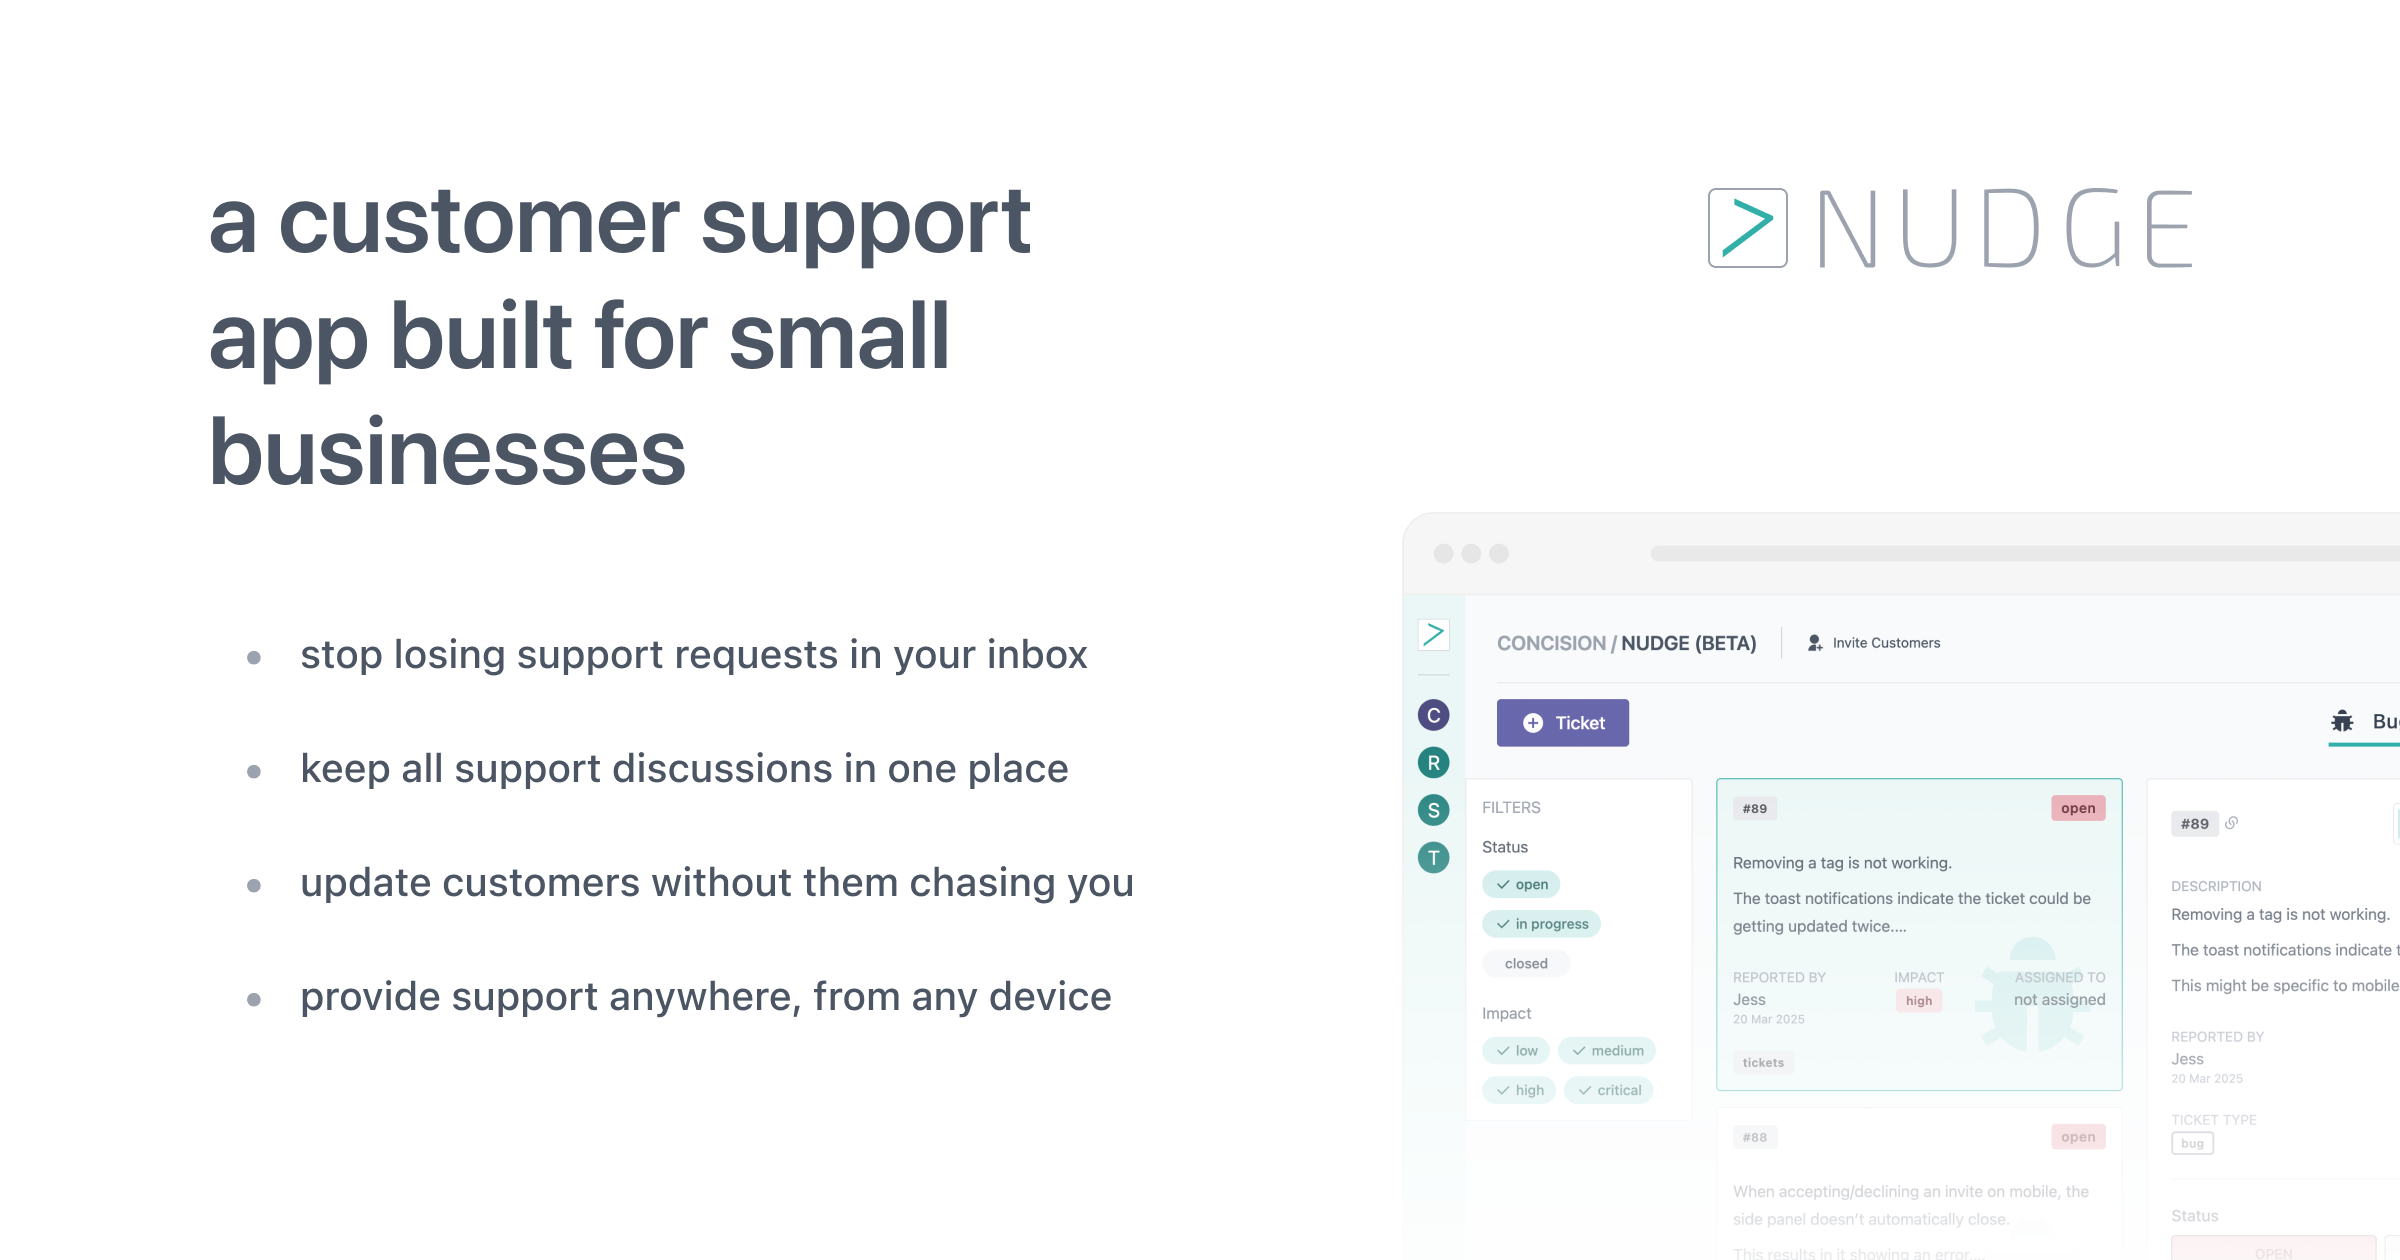
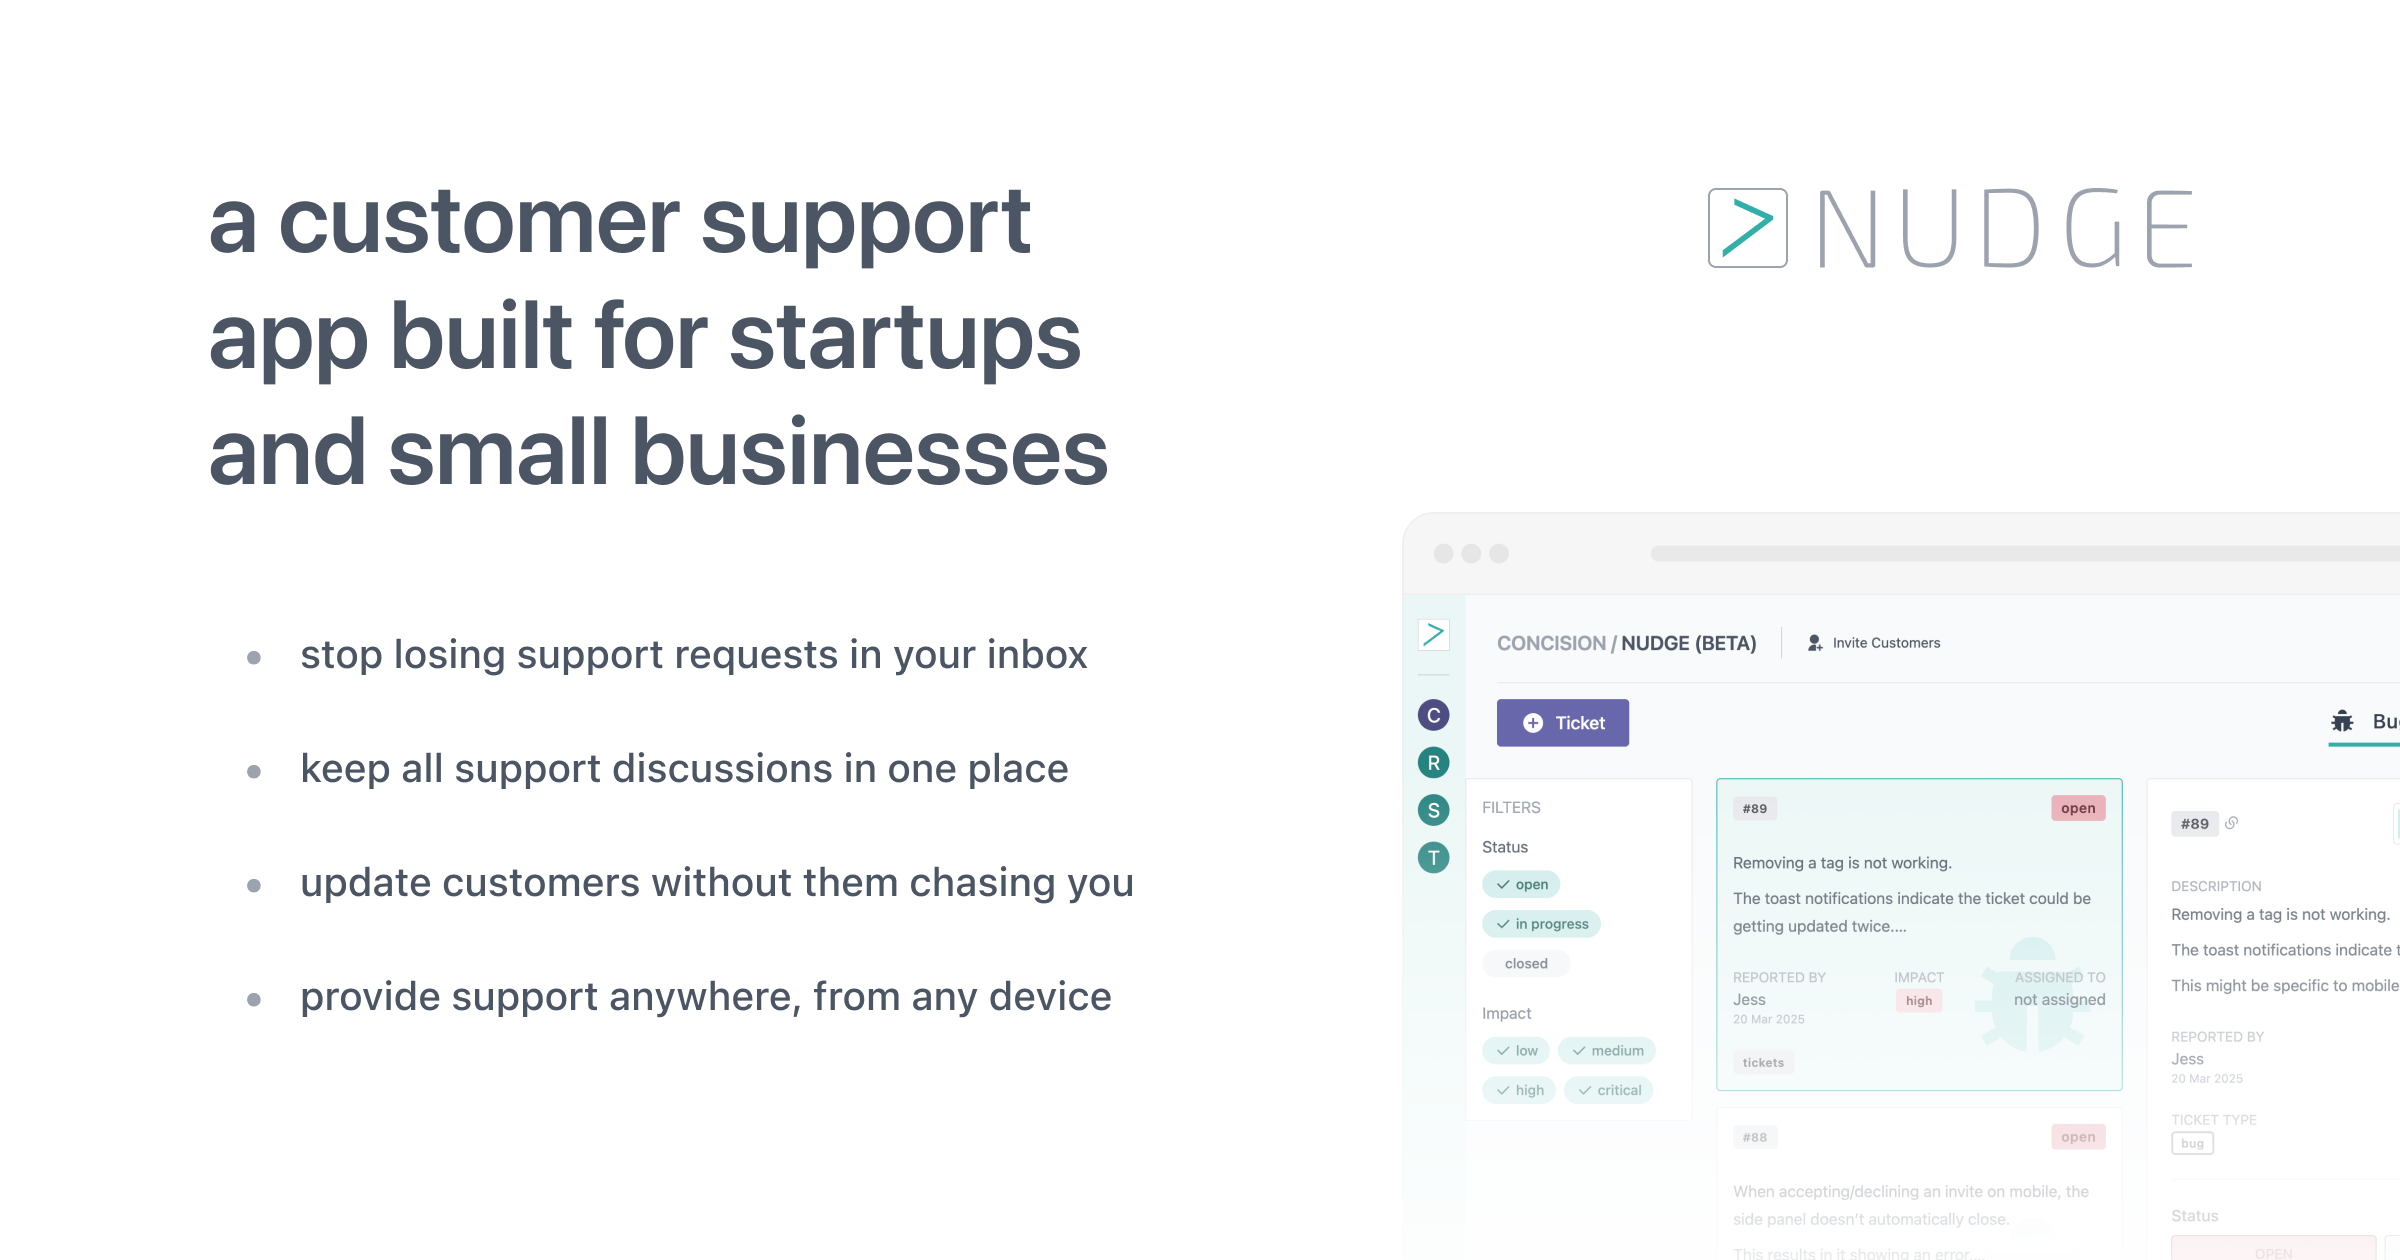
Feat/feedback changes v1 (#1)
* feat: set all headings to lowercase

* feat: include startups in meta data

* feat: replace social-preview image with version that includes mention of startups

* feat: replace "small teams" with "startups/small businesses" in benefits and FAQ

* fix(nav): make the overlay fill the screen when the mobile nav is open

Changed region(s): [[0.0938, 0.3405, 0.4688, 0.4024], [0.3125, 0.2167, 0.4688, 0.3095]]

diff --git a/index.html b/index.html
@@ -20,7 +20,7 @@
       fetchpriority="high"
     />
 
-    <title>Customer Support App for Small Businesses | Nudge</title>
+    <title>Customer Support App for Startups and Small Businesses | Nudge</title>
     <meta
       name="description"
       content="Nudge helps small businesses manage customer requests with ease. Track tickets, collaborate with your team, and keep customers updated from any device."
@@ -29,10 +29,10 @@
     <meta name="application-name" content="Nudge" />
 
     <!-- Open Graph data -->
-    <meta property="og:title" content="Nudge — Customer Support App for Small Businesses" />
+    <meta property="og:title" content="Nudge — Customer Support App for Startups and Small Businesses" />
     <meta
       property="og:description"
-      content="Manage customer requests, track tickets, and collaborate with your team. Nudge makes support simple for small businesses."
+      content="Manage customer requests, track tickets, and collaborate with your team. Nudge makes support simple for startups and small businesses."
     />
     <meta property="og:image" content="https://nudgesupport.com/assets/social-preview.png" />
     <meta property="og:url" content="https://nudgesupport.com" />
@@ -45,10 +45,10 @@
 
     <!-- Twitter Card data -->
     <meta name="twitter:card" content="summary_large_image" />
-    <meta name="twitter:title" content="Nudge — Customer Support App for Small Businesses" />
+    <meta name="twitter:title" content="Nudge — Customer Support App for Startups and Small Businesses" />
     <meta
       name="twitter:description"
-      content="Manage customer requests, track tickets, and collaborate with your team. Nudge makes support simple for small businesses."
+      content="Manage customer requests, track tickets, and collaborate with your team. Nudge makes support simple for startups and small businesses."
     />
     <meta name="twitter:image" content="https://nudgesupport.com/assets/social-preview.png" />
     <meta name="twitter:image:alt" content="Screenshot of the Nudge customer support app" />

diff --git a/scripts/components/MobileNavbar.js b/scripts/components/MobileNavbar.js
@@ -5,6 +5,7 @@ class MobileNavbar extends HTMLElement {
     this.innerHTML = template;
 
     const toggleButton = this.querySelector('.hamburger');
+    const navContainer = this.querySelector('.mobile-nav-container');
     const navPanel = this.querySelector('.offcanvas-panel');
     const navItems = navPanel.querySelectorAll('.nav-item');
 
@@ -62,13 +63,19 @@ class MobileNavbar extends HTMLElement {
 
     // functions
     const openNavPanel = () => {
+      navContainer.setAttribute('data-open', '');
       navPanel.setAttribute('data-open', '');
       toggleButton.setAttribute('aria-expanded', 'true');
+      // disable scrolling on html
+      document.documentElement.style.overflow = 'hidden';
     };
 
     const closeNavPanel = () => {
+      navContainer.removeAttribute('data-open');
       navPanel.removeAttribute('data-open');
       toggleButton.setAttribute('aria-expanded', 'false');
+      // enable scrolling on html
+      document.documentElement.style.overflow = '';
     };
   }
 }

diff --git a/styles/components/mobile-navbar.css b/styles/components/mobile-navbar.css
@@ -5,8 +5,8 @@
   left: 0;
   right: 0;
   z-index: var(--z-index-nav);
-  background-color: #ffffff66;
-  backdrop-filter: blur(10px);
+  background-color: #ffffffbb;
+  backdrop-filter: blur(4px);
   padding: 1.25rem 1rem;
 
   & .nav-top {
@@ -55,21 +55,22 @@
       align-items: center;
       row-gap: 1.5rem;
     }
-
-    /* control overlay visibility */
-    &[data-open] ~ .overlay {
-      opacity: 1;
-      pointer-events: auto;
-    }
   }
 
-  & .overlay {
+  /* control overlay visibility */
+  &[data-open] + .overlay {
+    opacity: 1;
+    pointer-events: auto;
+  }
+
+  & + .overlay {
     position: fixed;
     top: 0;
     left: 0;
     right: 0;
     bottom: 0;
-    background-color: var(--color-overlay);
+    background-color: #ffffff66;
+    backdrop-filter: blur(4px);
     z-index: var(--z-index-overlay);
     opacity: 0;
     pointer-events: none;

diff --git a/templates/faq-section.html b/templates/faq-section.html
@@ -5,7 +5,7 @@
     <div class="faq-item">
       <h3>Why should I use Nudge instead of Freshdesk, Zendesk, etc?</h3>
       <p>
-        Nudge is specifically <span class="text-highlight">built for small teams</span> looking to
+        Nudge is specifically <span class="text-highlight">built for startups/small businesses</span> looking to
         improve their customer support by moving away from email and spreadsheets.
       </p>
       <p>

diff --git a/templates/what-section.html b/templates/what-section.html
@@ -18,7 +18,7 @@
       icon-class="ri-smartphone-fill"
     ></benefit-item>
     <benefit-item
-      heading="Built for small teams"
+      heading="Built for startups and small businesses"
       description="Instead of unwanted features that inflate the price, Nudge is quick and simple to help your team handle support and get back to the real work."
       icon-class="ri-team-fill"
     ></benefit-item>

diff --git a/styles/base.css b/styles/base.css
@@ -213,6 +213,7 @@ h4,
 h5,
 h6 {
   margin: 0;
+  text-transform: lowercase;
 }
 
 .section-heading {
@@ -221,7 +222,6 @@ h6 {
   font-size: var(--font-size-5xl);
   font-weight: var(--font-weight-semibold);
   line-height: var(--line-height-snug);
-  text-transform: lowercase;
 
   @media (min-width: 1024px) {
     margin-bottom: 6rem;

diff --git a/templates/mobile-navbar.html b/templates/mobile-navbar.html
@@ -46,6 +46,6 @@
       </div>
     </div>
   </div>
-
-  <div class="overlay"></div>
 </nav>
+
+<div class="overlay"></div>
